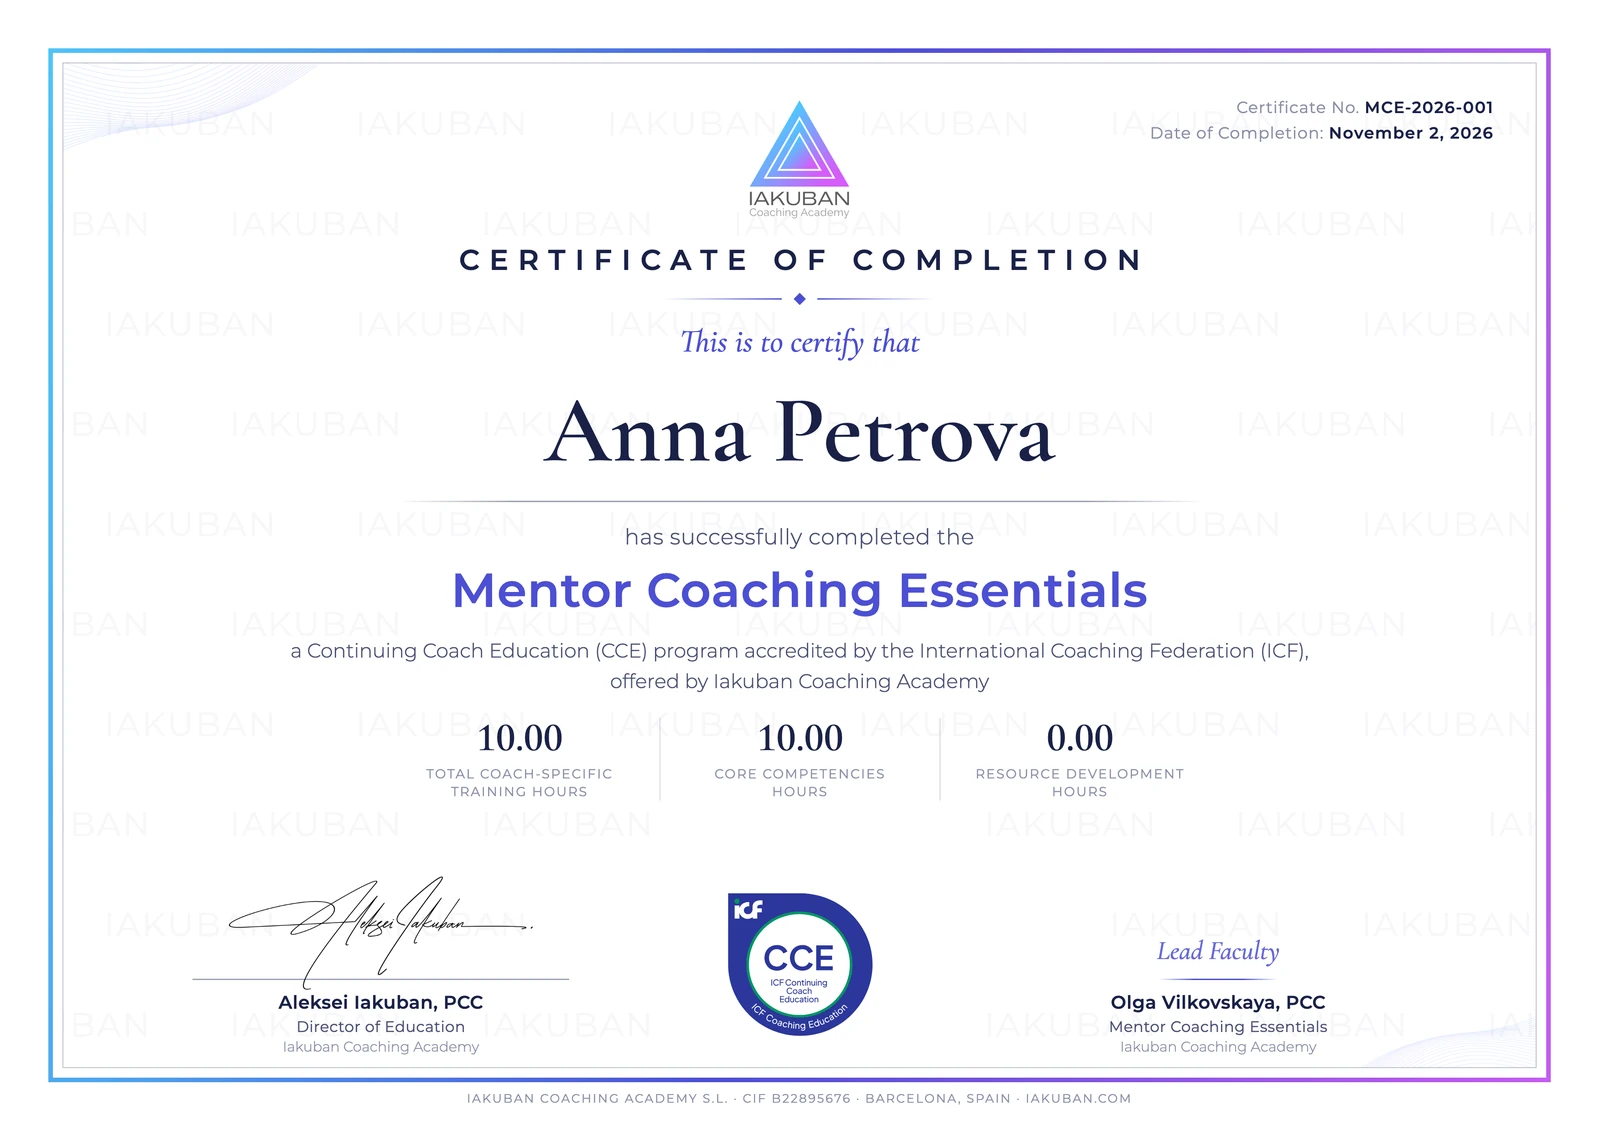
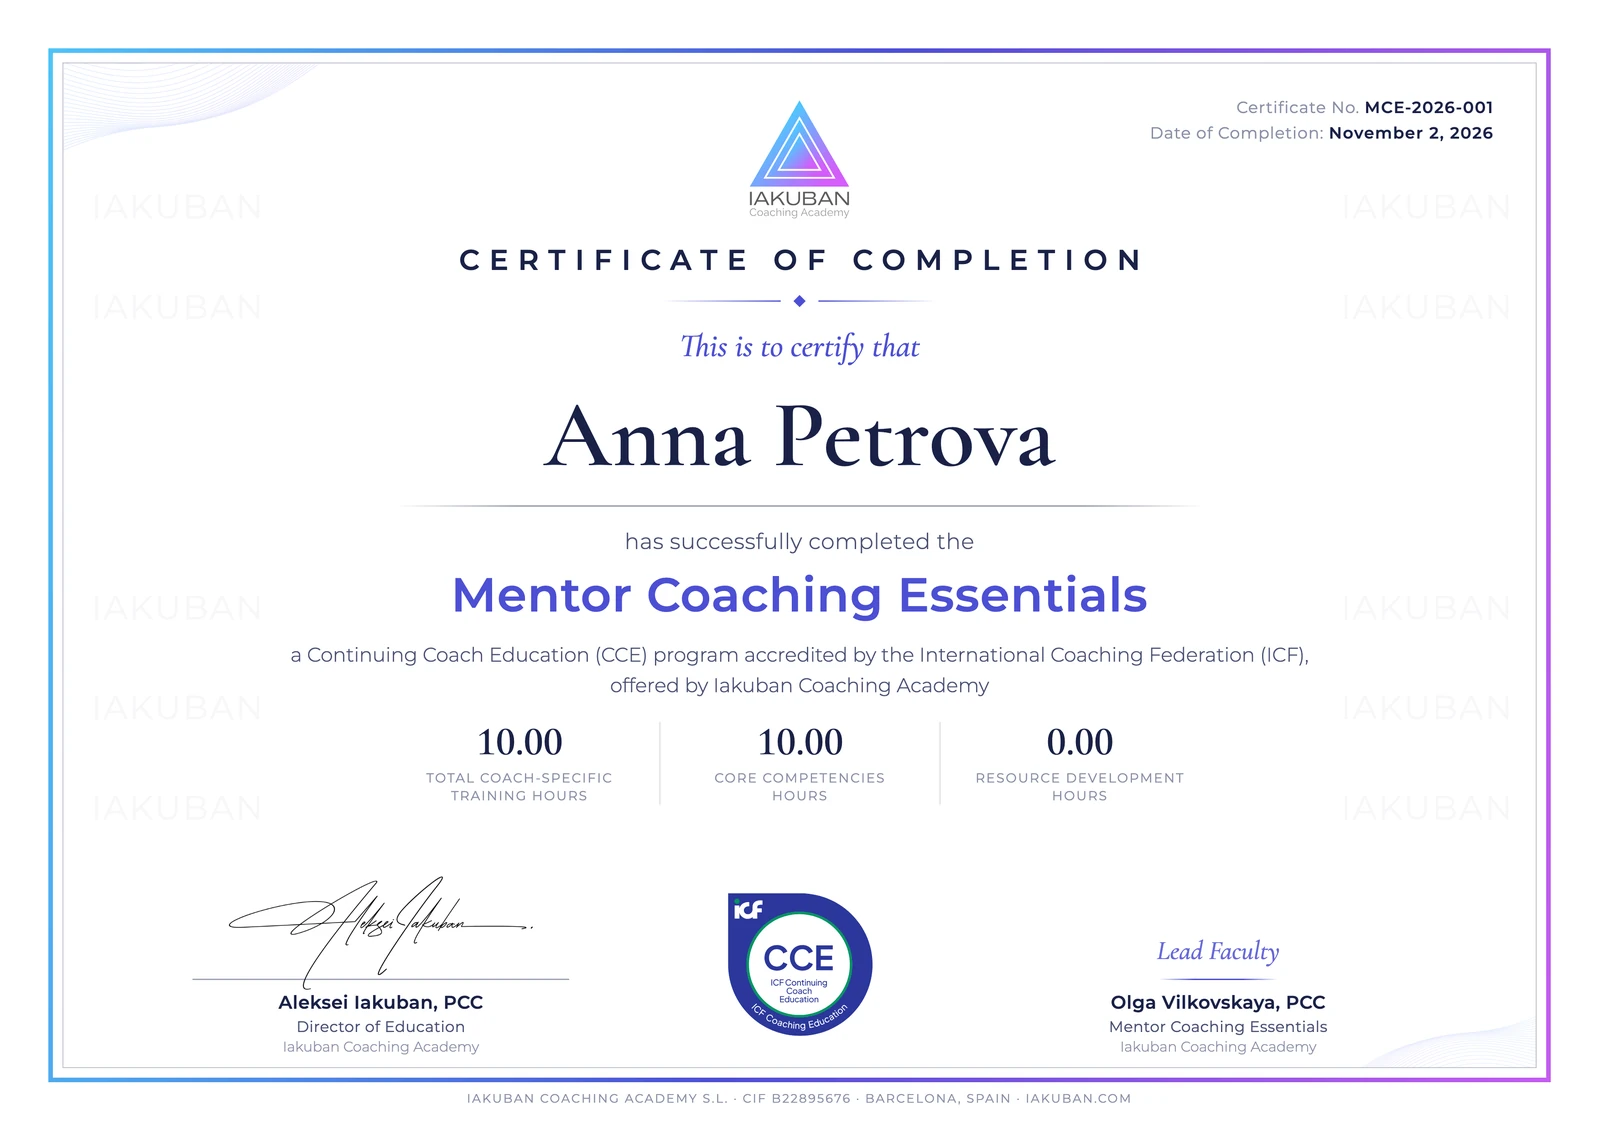
MCE: клуб сразу после оплаты, alt фото, видео↔компетенции, каталог коучей

Changed region(s): [[0.1875, 0.2476, 0.8125, 0.7118], [0.625, 0.6189, 0.7188, 0.7118], [0.2812, 0.6189, 0.375, 0.7118]]

diff --git a/index.html b/index.html
@@ -180,7 +180,7 @@ document.addEventListener("DOMContentLoaded", function(event) {
  {"@type":"Question","name":"Выдаётся ли сертификат?","acceptedAnswer":{"@type":"Answer","text":"Да. Для его получения нужно пройти все десять уроков, проработать кейсы и сдать итоговый тест на 80% и выше. В сертификате указаны 10 часов Continuing Coach Education категории Core Competency."}},
  {"@type":"Question","name":"Чем менторинг отличается от супервизии?","acceptedAnswer":{"@type":"Answer","text":"Менторинг — обратная связь о навыках относительно компетенций ICF. Супервизия — работа с самим коучем и его реакциями в практике. Разграничению посвящён урок 3."}},
  {"@type":"Question","name":"Подходит ли программа преподавателям программ коуч-образования?","acceptedAnswer":{"@type":"Answer","text":"Да, это одна из целевых аудиторий. С 1 января 2027 года менторинг внутри аккредитованных ICF программ уровня Level 1 и Level 2 проводят только менторы с MCS, поэтому faculty программ проходит тот же путь, что и частные менторы."}},
- {"@type":"Question","name":"В чём разница между тарифами?","acceptedAnswer":{"@type":"Answer","text":"«Ментор» (190 €) даёт все 10 уроков, сертификат, доступ в закрытый клуб менторов Mentor Circle в Telegram, доступ в общий чат выпускников академии и место в базе выпускников. «Ментор + сессия» (350 €) добавляет к этому индивидуальную часовую ориентирующую сессию с ментором уровня PCC ICF — разбор вашей ситуации и вопросов о движении в профессии."}}
+ {"@type":"Question","name":"В чём разница между тарифами?","acceptedAnswer":{"@type":"Answer","text":"«Ментор» (190 €) даёт все 10 уроков, сертификат, доступ в закрытый клуб менторов Mentor Circle в Telegram, доступ в общий чат выпускников академии и место в каталоге коучей платформы. «Ментор + сессия» (350 €) добавляет к этому индивидуальную часовую ориентирующую сессию с ментором уровня PCC ICF — разбор вашей ситуации и вопросов о движении в профессии."}}
  ]
 }
 </script>
@@ -1020,7 +1020,7 @@ document.addEventListener("DOMContentLoaded", function(event) {
  </details>
  <details>
  <summary><span class="l-num">5</span><span class="l-title">Компетенции ментор-коуча<span class="en">Mentor Coaching Competencies</span></span><span class="l-meta"><span class="l-fmt">3 видео + самопроверка</span></span></summary>
- <p>Модель компетенций ментор-коуча ICF: шесть компетенций в четырёх разделах. Три видео: первое (около 23 минут) про основания роли, этику и соглашение, это компетенции 1 и 2. Второе (около 27 минут) про управление процессом и формирующую оценку, компетенции 3 и 4. Третье (около 39 минут) про развитие навыка и групповую работу, компетенции 5 и 6.</p>
+ <p>Модель компетенций ментор-коуча ICF: шесть компетенций в четырёх разделах, три видео.<br><b>Видео 1, компетенции 1–2</b> (около 23 минут): основания роли ментора, этика и соглашение.<br><b>Видео 2, компетенции 3–4</b> (около 27 минут): управление процессом и формирующая оценка.<br><b>Видео 3, компетенции 5–6</b> (около 39 минут): развитие навыка и групповая работа.</p>
  </details>
  <details>
  <summary><span class="l-num">6</span><span class="l-title">Соглашение и управление процессом менторинга<span class="en">The Mentoring Agreement and Managing the Mentoring Process</span></span><span class="l-meta"><span class="l-fmt">Текст + разбор кейса</span></span></summary>
@@ -1103,6 +1103,7 @@ document.addEventListener("DOMContentLoaded", function(event) {
  <li>Сертификат на английском, имя в нём пишется латиницей.</li>
  <li>Он придёт на email и останется в личном кабинете на платформе академии.</li>
  <li>В нём указано <b>10 часов Continuing Coach Education</b> в категории Core Competency: их можно учесть при продлении квалификации ICF.</li>
+ <li>С сертификатом вы заполняете анкету коуча и после проверки попадаете в <b>каталог коучей платформы</b> с отметкой «Выпускник программы Mentor Coaching Essentials». У вас будет личная страница с отзывами и календарь со свободными слотами, клиенты смогут найти вас в каталоге и записаться сами. Платформа сама напомнит клиенту о сессии за сутки и за час, а после встречи попросит оставить отзыв.</li>
  </ul>
  </div>
  </div>
@@ -1137,10 +1138,10 @@ document.addEventListener("DOMContentLoaded", function(event) {
  <div class="wrap">
  <div class="club-grid">
  <div class="club-body">
- <p class="sec-eyebrow">После программы</p>
+ <p class="sec-eyebrow">Сообщество</p>
  <h2 class="sec-title">Клуб менторов</h2>
  <p class="club-name">Mentor Circle · клуб менторов Iakuban</p>
- <p class="lead">Когда вы пройдёте программу, мы добавим вас в закрытый клуб менторов в Telegram. Учёба заканчивается, а коллеги остаются.</p>
+ <p class="lead">Сразу после оплаты вы получите приглашение в закрытый клуб менторов в Telegram: ссылка придёт в письме вместе с доступом к курсу. Учёба когда-то закончится, а коллеги останутся.</p>
  <ul>
  <li>В клубе общаются <b>практикующие коучи и менторы</b> академии.</li>
  <li>Там делятся практикой: можно принести сложный случай с менти, спросить, как коллеги выстраивают соглашение, или рассказать, что сработало у вас.</li>
@@ -1148,7 +1149,7 @@ document.addEventListener("DOMContentLoaded", function(event) {
  </ul>
  </div>
  <div class="club-photo">
- <img src="assets/mentor-circle.webp" alt="Женщина машет коллегам во время видеозвонка" width="1200" height="800" loading="lazy">
+ <img src="assets/mentor-circle.webp" alt="Улыбающаяся женщина с тёмными волнистыми волосами машет рукой" width="1200" height="800" loading="lazy">
  </div>
  </div>
  </div>
@@ -1168,7 +1169,7 @@ document.addEventListener("DOMContentLoaded", function(event) {
  <li>Итоговый тест и <b>сертификат о прохождении программы, аккредитованной ICF</b> (CCE, 10 часов Core Competency)</li>
  <li><b>Закрытый клуб менторов</b> «Mentor Circle · клуб менторов Iakuban» в Telegram, где общаются практикующие коучи и менторы академии</li>
  <li>Доступ в <b>общий чат выпускников академии</b> (не только менторский)</li>
- <li>Место в базе выпускников академии на платформе iakuban.com</li>
+ <li><b>Место в каталоге коучей</b> платформы iakuban.com с отметкой «Выпускник программы Mentor Coaching Essentials»: личная страница, календарь со свободными слотами, запись клиентов через платформу</li>
  </ul>
  <a class="btn btn-lg" href="https://t.me/iakuban_team?text=%D0%97%D0%B4%D1%80%D0%B0%D0%B2%D1%81%D1%82%D0%B2%D1%83%D0%B9%D1%82%D0%B5%21%20%D0%A5%D0%BE%D1%87%D1%83%20%D0%BD%D0%B0%20%D0%BF%D1%80%D0%BE%D0%B3%D1%80%D0%B0%D0%BC%D0%BC%D1%83%20%C2%AB%D0%9E%D1%81%D0%BD%D0%BE%D0%B2%D1%8B%20%D0%BC%D0%B5%D0%BD%D1%82%D0%BE%D1%80%D0%B8%D0%BD%D0%B3%D0%B0%20%D0%B4%D0%BB%D1%8F%20%D0%BA%D0%BE%D1%83%D1%87%D0%B5%D0%B9%C2%BB%2C%20%D1%82%D0%B0%D1%80%D0%B8%D1%84%20%C2%AB%D0%9C%D0%B5%D0%BD%D1%82%D0%BE%D1%80%C2%BB.%20%D0%9C%D0%BE%D0%B9%20%D0%BA%D0%BE%D0%B4%3A%20MCE-MENTOR" target="_blank" rel="noopener">Выбрать «Ментор»</a>
  </div>
@@ -1254,7 +1255,7 @@ document.addEventListener("DOMContentLoaded", function(event) {
  </details>
  <details>
  <summary>В чём разница между тарифами?</summary>
- <p><b>«Ментор» (190 €)</b> даёт все 10 уроков, сертификат, доступ в закрытый клуб менторов Mentor Circle в Telegram, доступ в общий чат выпускников академии и место в базе выпускников. <b>«Ментор + сессия» (350 €)</b> добавляет к этому индивидуальную часовую ориентирующую сессию с ментором уровня PCC ICF — разбор вашей ситуации и вопросов о движении в профессии.</p>
+ <p><b>«Ментор» (190 €)</b> даёт все 10 уроков, сертификат, доступ в закрытый клуб менторов Mentor Circle в Telegram, доступ в общий чат выпускников академии и место в каталоге коучей платформы. <b>«Ментор + сессия» (350 €)</b> добавляет к этому индивидуальную часовую ориентирующую сессию с ментором уровня PCC ICF — разбор вашей ситуации и вопросов о движении в профессии.</p>
  </details>
  </div>
  <div class="faq-more">
